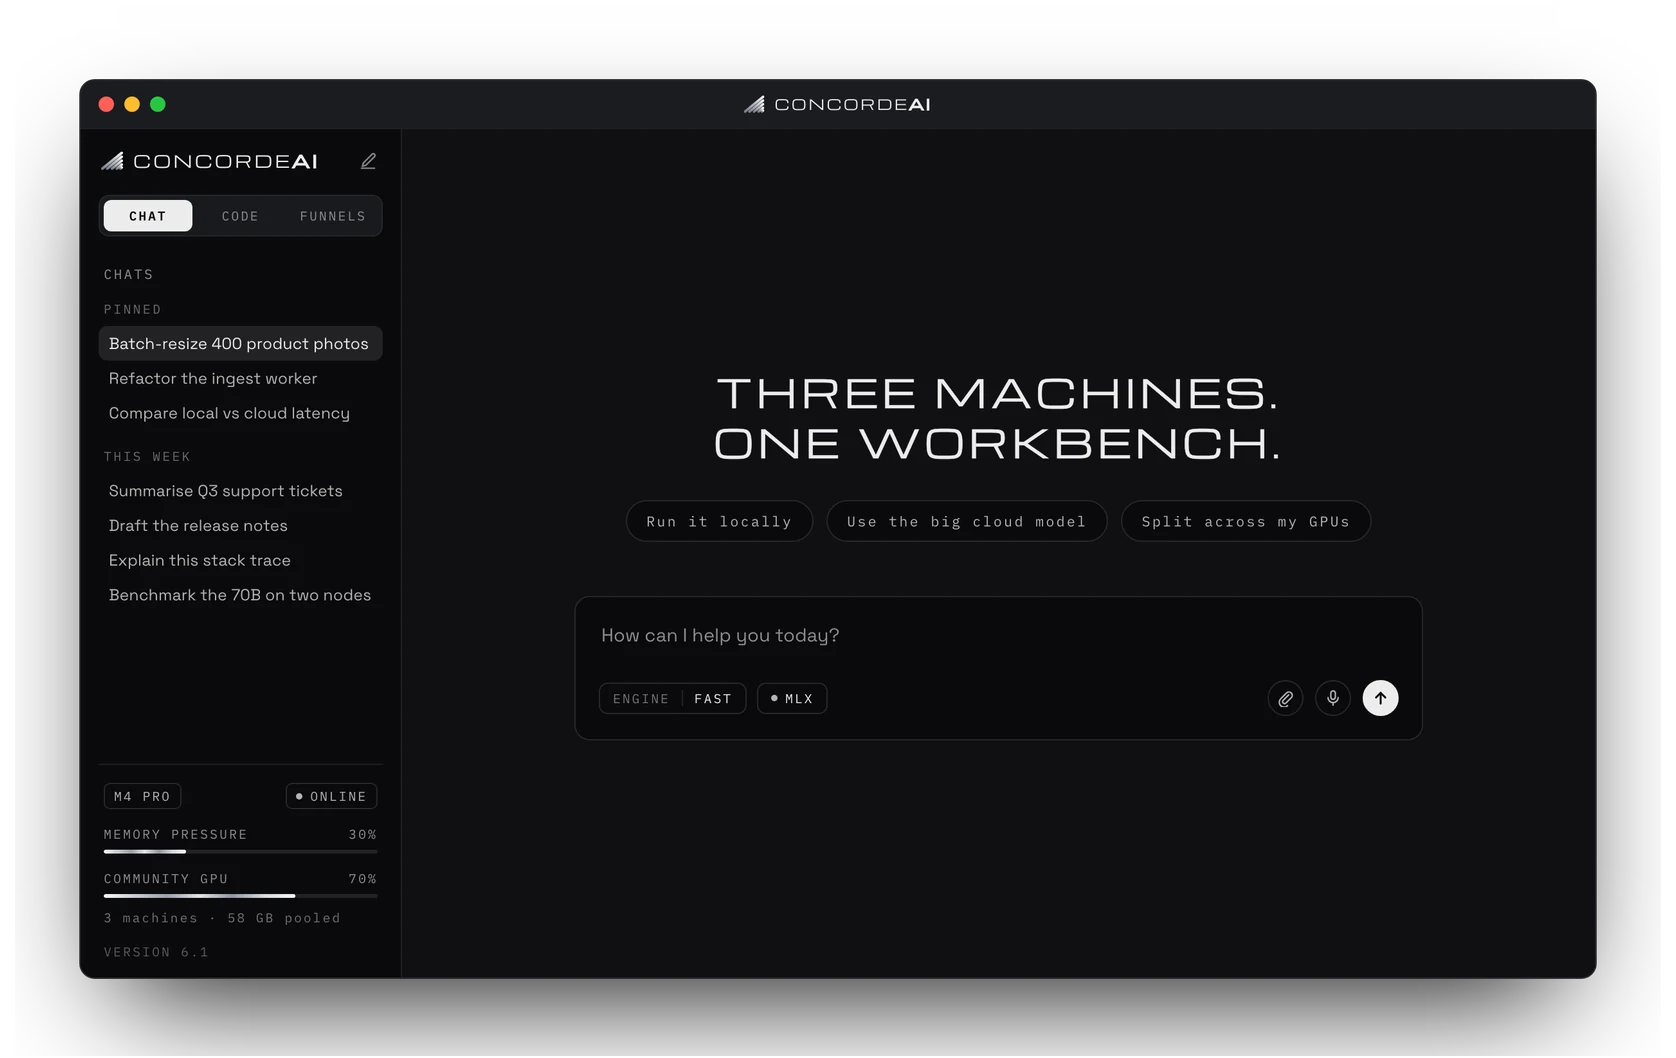
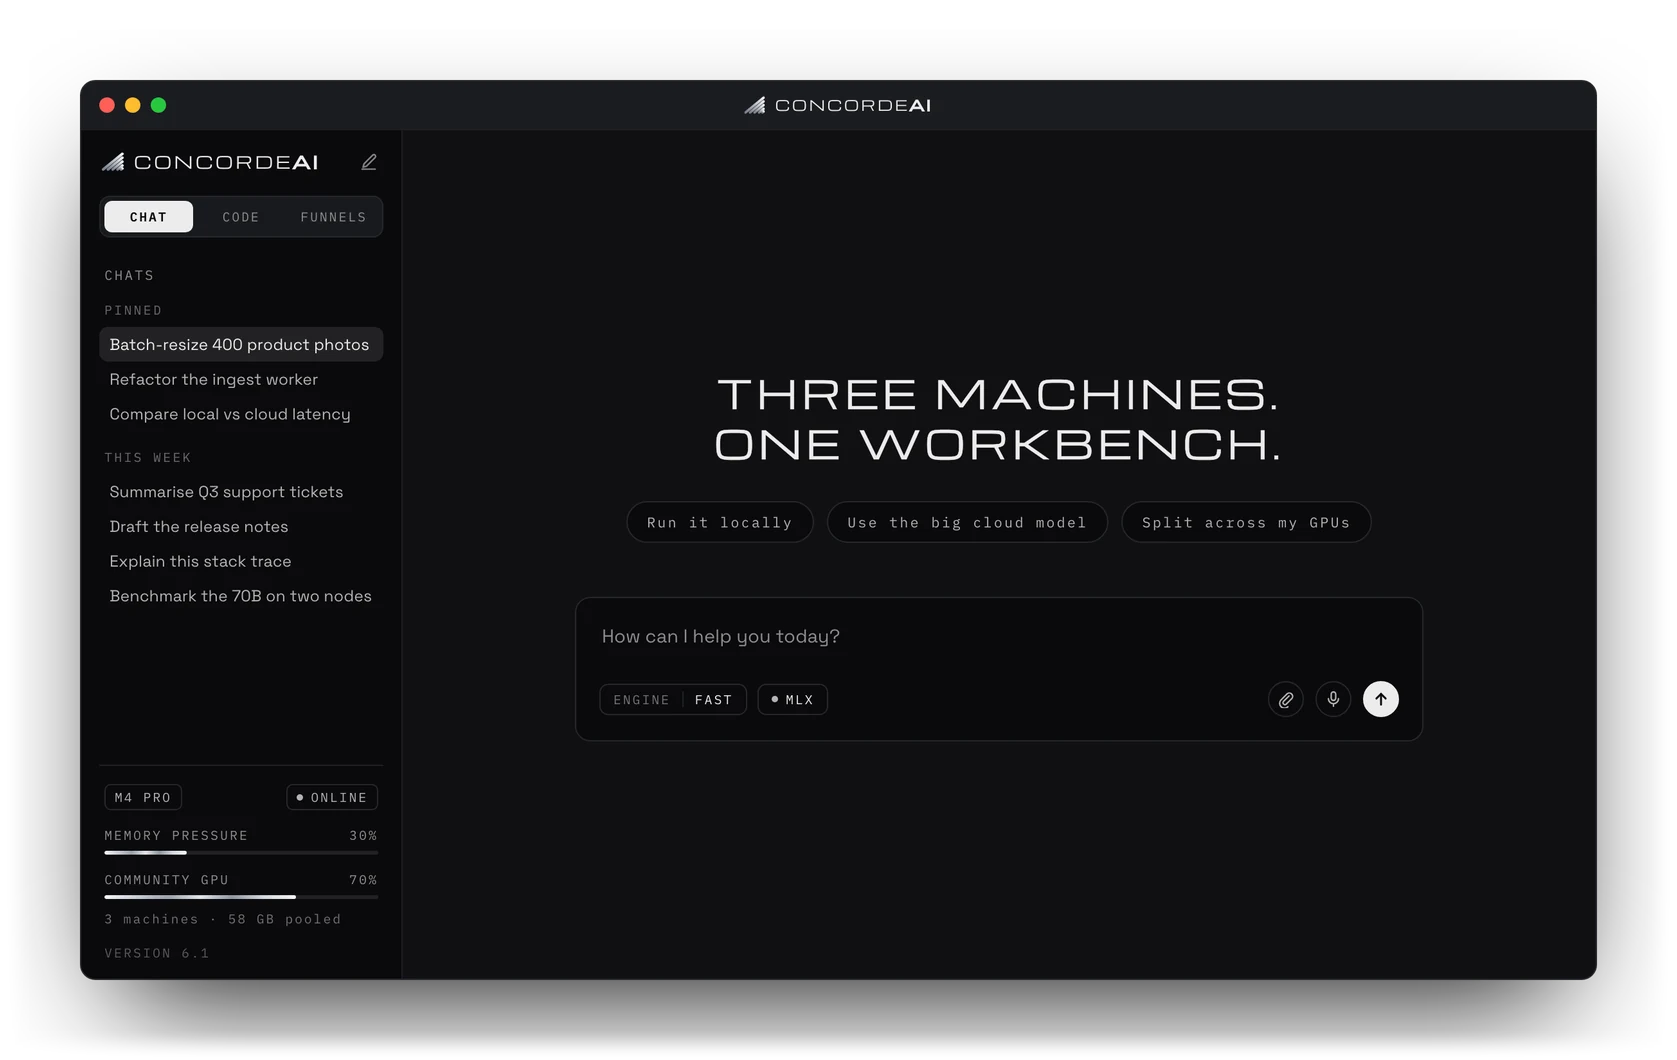
Gallery: no jump on phones, shadows intact, tools that fail loudly
Findings from an adversarial verification pass over the previous commit.

On phones the images had a 0px box until they lazy-loaded, so the page
jumped ~600px when they arrived (943px at 820). Two causes: the stacked
figures were fit-content of a not-yet-loaded image, and — the deeper one —
while an image request is in flight Chrome gives the box no intrinsic
ratio at all, so the width/height attributes were not reserving anything.
Fixed with a definite figure width in the stacked layout and explicit CSS
aspect-ratios matching the files. Proven with tools/measure.mjs holding
the image requests: boxes identical before and after load at 375, 820 and
1280. Captions also wrap again on phones instead of spilling past a
320px column.

The assets had been cut by the capture viewport, not by design: every
shadow ended in a hard alpha step (35–49/255 at the bottom) that showed
on the page as a faint line, and make-shots.py's reach check could not
see it because it measured the viewport edge. Captures are now large
enough for the whole shadow, the script refuses one that is not, and the
outer 30px of the margin fade the shadow to nothing instead of cutting it.
Geometry is now exact by construction — one resize from the pixel-aligned
capture puts the window on rows 80–980 in both images — rather than
re-measured after resampling, which could disagree by a pixel.

tools/measure.mjs now cleans up Chrome on every path (process-group kill,
[…]

diff --git a/index.html b/index.html
@@ -442,11 +442,17 @@ footer .right{margin-left:auto;display:flex;gap:20px;flex-wrap:wrap}
    the explaining, and this is meant to be looked at, not read. */
 .gallery{padding:14px 0 8px}
 .gal{display:flex;align-items:flex-start;justify-content:center;gap:0;
-  /* 39vw keeps the row inside .wrap down to the phone breakpoint; 500px
-     is half the assets' 2x pixel height, i.e. their full resolution. */
+  /* 39vw keeps the row inside .wrap down to the phone breakpoint; the
+     500px cap keeps the 2x assets at or above their full resolution. */
   --gal-h:clamp(300px,39vw,500px)}
 .gal figure{margin:0;flex:0 0 auto;min-width:0}
 .gal img{display:block;width:auto;height:var(--gal-h)}
+/* Explicit ratios (the files' own) so the boxes are right BEFORE the lazy
+   images load. The width/height attributes alone are not enough: while a
+   request is in flight Chrome gives the box no intrinsic ratio, and the
+   page would jump ~600px on phones when the images arrive. */
+.gal-ai img{aspect-ratio:1677/1060}
+.gal-vpn img{aspect-ratio:689/1060}
 /* width:0 + min-width:100%: the caption takes the figure's width instead
    of setting it. Centred as a flex item so a line wider than a narrow
    window overflows evenly to both sides instead of wrapping. */
@@ -455,9 +461,14 @@ footer .right{margin-left:auto;display:flex;gap:20px;flex-wrap:wrap}
 .gal figcaption span{white-space:nowrap}
 @media (max-width:820px){
   .gal{flex-direction:column;align-items:center;gap:6px}
+  /* A definite width for the percentage widths below to resolve against
+     BEFORE the lazy images arrive; without it each figure is fit-content
+     of a not-yet-loaded image (0px) and the page jumps ~600px on load. */
+  .gal figure{width:100%}
   .gal img{margin:0 auto}
   .gal-ai img{height:auto;width:100%}
   .gal-vpn img{height:auto;width:min(300px,78%)}
+  .gal figcaption span{white-space:normal}
 }
 
 </style>
@@ -525,7 +536,7 @@ footer .right{margin-left:auto;display:flex;gap:20px;flex-wrap:wrap}
         <figure class="gal-ai">
           <picture>
             <source srcset="assets/shot-ai.webp" type="image/webp">
-            <img src="assets/shot-ai.png" width="1676" height="1058" loading="lazy" decoding="async"
+            <img src="assets/shot-ai.png" width="1677 1060" height="" loading="lazy" decoding="async"
                  alt="The ConcordeAI window: three machines pooled into one workbench.">
           </picture>
           <figcaption class="label"><span>Chat &middot; code &middot; funnels &middot; one window<br>Your GPUs pooled, cloud models beside them</span></figcaption>
@@ -533,7 +544,7 @@ footer .right{margin-left:auto;display:flex;gap:20px;flex-wrap:wrap}
         <figure class="gal-vpn">
           <picture>
             <source srcset="assets/shot-vpn.webp" type="image/webp">
-            <img src="assets/shot-vpn.png" width="688" height="1058" loading="lazy" decoding="async"
+            <img src="assets/shot-vpn.png" width="689 1060" height="" loading="lazy" decoding="async"
                  alt="The ConcordeVPN window: connected, with the exit verified.">
           </picture>
           <figcaption class="label"><span>One switch, three transports<br>Exit verified, then connected</span></figcaption>

diff --git a/tools/make-shots.py b/tools/make-shots.py
@@ -3,11 +3,20 @@
 
 The two windows sit side by side on the site at ONE CSS height, so the
 assets must agree on geometry or nothing lines up: in each output the
-opaque window is exactly WIN_H tall and is surrounded by the same MARGIN of
-transparent shadow room on all four sides. Two images with identical window
-height and identical margins, given the same CSS height, render their
-windows to the pixel at the same top and bottom — that is the whole trick,
-and it is why the site never has to know how big the shadow is.
+opaque window occupies exactly rows MARGIN..MARGIN+WIN_H and is surrounded
+by the same MARGIN of transparent shadow room on all four sides. Two images
+with identical window rows, given the same CSS height, render their windows
+on the same top and bottom line — that is the whole trick, and it is why
+the site never has to know how big the shadow is.
+
+The geometry is exact by construction, not by measurement: the window is
+located in the raw 2x capture (where it is pixel-aligned), and ONE resize
+maps window+margin straight onto the output canvas, so the window's edges
+land on pixel boundaries in both images with the same phase.
+
+The box-shadow reaches further than MARGIN. Rather than crop it to a hard
+line (visible as a faint step on the page), the outer FEATHER px of the
+margin fade the alpha to zero, so the shadow ends in nothing.
 
 The captures are 2x (Retina) and the outputs stay 2x: WIN_H is twice the
 largest height the site renders the windows at.
@@ -19,62 +28,79 @@ import subprocess
 import sys
 import tempfile
 
-from PIL import Image
+from PIL import Image, ImageChops, ImageDraw
 
 CHROME = "/Applications/Google Chrome.app/Contents/MacOS/Google Chrome"
 HERE = os.path.dirname(os.path.abspath(__file__))
 ASSETS = os.path.normpath(os.path.join(HERE, "..", "assets"))
 
 WIN_H = 900      # window height in the finished asset (px)
-MARGIN = 80      # transparent room around the window, every side (px); the
-                 # box-shadow is soft and reaches ~78px at this scale
-OPAQUE = 250     # alpha at or above this is window, below is shadow/air
-SHADOW = 4       # alpha at or above this must still fit inside MARGIN
+MARGIN = 80      # transparent room around the window, every side (px). The
+                 # two images abut on the page, so this is also half the
+                 # visible gap between the windows.
+FEATHER = 30     # outer px of the margin over which the shadow fades out
+OPAQUE = 250     # alpha at or above this is window; below is shadow or air
 
-# name -> (source page, capture window in CSS px — must be larger than the
-# window plus its shadow, or the shadow gets clipped)
+# name -> (source page, capture window in CSS px). The capture must hold
+# the window plus MARGIN/k of shadow on every side, where k = WIN_H / the
+# window's 2x pixel height; the script refuses a capture that is too small.
 SOURCES = {
-    "ai":  ("ai-window.html",  (1280, 820)),
-    "vpn": ("vpn-window.html", (560, 900)),
+    "ai":  ("ai-window.html",  (1520, 1120)),
+    "vpn": ("vpn-window.html", (780, 1220)),
 }
 
 
 def capture(html, size, out):
     # --virtual-time-budget is what waits for the Google Fonts webfonts;
     # without it the window silently renders in a fallback face.
-    subprocess.run([
+    r = subprocess.run([
         CHROME, "--headless=new", "--disable-gpu", "--hide-scrollbars",
         "--force-device-scale-factor=2", "--default-background-color=00000000",
         "--virtual-time-budget=9000", "--screenshot=%s" % out,
         "--window-size=%d,%d" % size, "file://%s" % html,
-    ], check=True, capture_output=True)
+    ], capture_output=True, text=True)
+    if r.returncode:
+        sys.exit("chrome exited %d capturing %s:\n%s" % (r.returncode, html, r.stderr.strip()[-2000:]))
 
 
-def window_box(im, threshold):
+def alpha_box(im, threshold):
     return im.getchannel("A").point(lambda v: 255 if v >= threshold else 0).getbbox()
 
 
 def normalise(path):
-    im = Image.open(path).convert("RGBA")
-    x0, y0, x1, y1 = window_box(im, OPAQUE)
+    raw = Image.open(path).convert("RGBA")
+    sx0, sy0, sx1, sy1 = alpha_box(raw, 1)
+    if sx0 == 0 or sy0 == 0 or sx1 == raw.width or sy1 == raw.height:
+        sys.exit("%s: the shadow runs off the capture; enlarge its SOURCES size" % path)
+
+    x0, y0, x1, y1 = alpha_box(raw, OPAQUE)           # the window, pixel-exact at 2x
     k = WIN_H / float(y1 - y0)
-    im = im.resize((round(im.width * k), round(im.height * k)), Image.LANCZOS)
+    m = MARGIN / k                                     # the margin, in raw px
+    box = (x0 - m, y0 - m, x1 + m, y1 + m)
+    if box[0] < 0 or box[1] < 0 or box[2] > raw.width or box[3] > raw.height:
+        sys.exit("%s: no room for MARGIN around the window; enlarge its SOURCES size" % path)
 
-    x0, y0, x1, y1 = window_box(im, OPAQUE)          # re-measure after resampling
-    sx0, sy0, sx1, sy1 = window_box(im, SHADOW)
-    reach = max(x0 - sx0, y0 - sy0, sx1 - x1, sy1 - y1)
-    if reach > MARGIN:
-        sys.exit("shadow reaches %dpx beyond the window; raise MARGIN above that" % reach)
+    out_w = int(round((x1 - x0) * k)) + 2 * MARGIN
+    out = raw.resize((out_w, WIN_H + 2 * MARGIN), Image.LANCZOS, box=box)
 
-    box = (x0 - MARGIN, y0 - MARGIN, x1 + MARGIN, y1 + MARGIN)
-    out = im.crop(box)                                # pads with transparent if outside
-    assert out.height == (y1 - y0) + 2 * MARGIN
+    fade = Image.new("L", out.size, 255)
+    d = ImageDraw.Draw(fade)
+    for i in range(FEATHER):
+        t = (i + 0.5) / FEATHER
+        d.rectangle((i, i, out.width - 1 - i, out.height - 1 - i),
+                    outline=int(round(255 * t * t * (3 - 2 * t))))
+    out.putalpha(ImageChops.multiply(out.getchannel("A"), fade))
+
+    # how far the faint (alpha >= 4) shadow reached in the capture, at output
+    # scale — informational; whatever lies beyond MARGIN is what the feather
+    # is quietly discarding
+    fx0, fy0, fx1, fy1 = alpha_box(raw, 4)
+    reach = int(round(max(x0 - fx0, y0 - fy0, fx1 - x1, fy1 - y1) * k))
     return out, (x1 - x0, y1 - y0), reach
 
 
 def main():
     os.makedirs(ASSETS, exist_ok=True)
-    heights, windows = set(), set()
     with tempfile.TemporaryDirectory() as tmp:
         for name, (html, size) in SOURCES.items():
             raw = os.path.join(tmp, name + ".png")
@@ -83,16 +109,10 @@ def main():
             base = os.path.join(ASSETS, "shot-" + name)
             out.save(base + ".png", optimize=True)
             out.save(base + ".webp", quality=88, method=6)
-            heights.add(out.height)
-            windows.add(wh)
-            print("  shot-%-4s %4dx%-4d  window %4dx%d  shadow reach %dpx  (margin %d)"
-                  % (name, out.width, out.height, ww, wh, reach, MARGIN))
-    if len(heights) != 1 or len(windows) != 1:
-        sys.exit("outputs disagree: heights %s, windows %s" % (sorted(heights), sorted(windows)))
-    # resampling can land a pixel or two under WIN_H; what matters is that
-    # both agree, which the check above guarantees
-    h, wh = heights.pop(), windows.pop()
-    print("  both %dpx tall; window %dpx of that (%.4f)" % (h, wh, wh / float(h)))
+            print("  shot-%-4s %4dx%-4d  raw window %4dx%d  shadow reached %dpx, margin %d (fades over the last %d)"
+                  % (name, out.width, out.height, ww, wh, reach, MARGIN, FEATHER))
+    print("  window rows %d..%d in both; update the <img width height> in index.html if the sizes changed"
+          % (MARGIN, MARGIN + WIN_H))
 
 
 if __name__ == "__main__":

diff --git a/tools/README.md b/tools/README.md
@@ -50,13 +50,19 @@ Two rules they exist to enforce:
     python3 tools/make-shots.py
 
 That captures both windows with headless Chrome at 2x, then normalises them
-into a **matched pair**: in each output the opaque window is exactly the same
-pixel height and sits inside the same transparent margin on all four sides.
-The site gives both images one CSS height, so identical geometry is what
-makes the two windows land on the same top and bottom line to the pixel —
-if you ever crop these by hand, that alignment is the first thing to break.
-Both `.png` and `.webp` are written to `assets/`; update the `width`/`height`
-attributes in `index.html` if the printed dimensions change.
+into a **matched pair**: in each output the opaque window occupies exactly
+the same rows (80–980) inside the same 80px transparent margin on all four
+sides — placed by one resize from the pixel-aligned capture, so the edges
+land on pixel boundaries with the same phase in both. The site gives both
+images one CSS height, so identical geometry is what makes the two windows
+land on the same top and bottom line to the pixel — if you ever crop these
+by hand, that alignment is the first thing to break. The box-shadow reaches
+further than the margin; the outer 30px of the margin fade it to nothing
+instead of cutting it (a cut shows on the page as a faint line). The script
+refuses a capture whose shadow runs off the edge, so if it complains,
+enlarge that entry's size in `SOURCES`. Both `.png` and `.webp` are written
+to `assets/`; update the `width`/`height` attributes in `index.html` if the
+printed dimensions change.
 
 **`--virtual-time-budget` is not optional** (the script passes it). Without
 it Chrome captures before the Google Fonts webfonts arrive and silently falls
@@ -72,7 +78,10 @@ is what lets the site's starfield show around the window instead of a flat box.
 
 Drives headless Chrome over the DevTools protocol at an exact viewport
 (device emulation, so phone widths work) and prints what the expression
-returns. **Do not check phone layouts with `--window-size`:** headless
+returns; it exits non-zero if the page fails to load or the expression
+throws. `MEASURE_HOLD=assets/shot-` leaves requests containing that text
+pending, which is what a not-yet-loaded lazy image looks like — measure with
+and without it to prove a layout does not jump when the images arrive. **Do not check phone layouts with `--window-size`:** headless
 Chrome will not lay out narrower than ~500px, so a `--window-size=390,…`
 capture is a 500px layout cropped to 390 — it shows phantom overflow no phone
 has.
